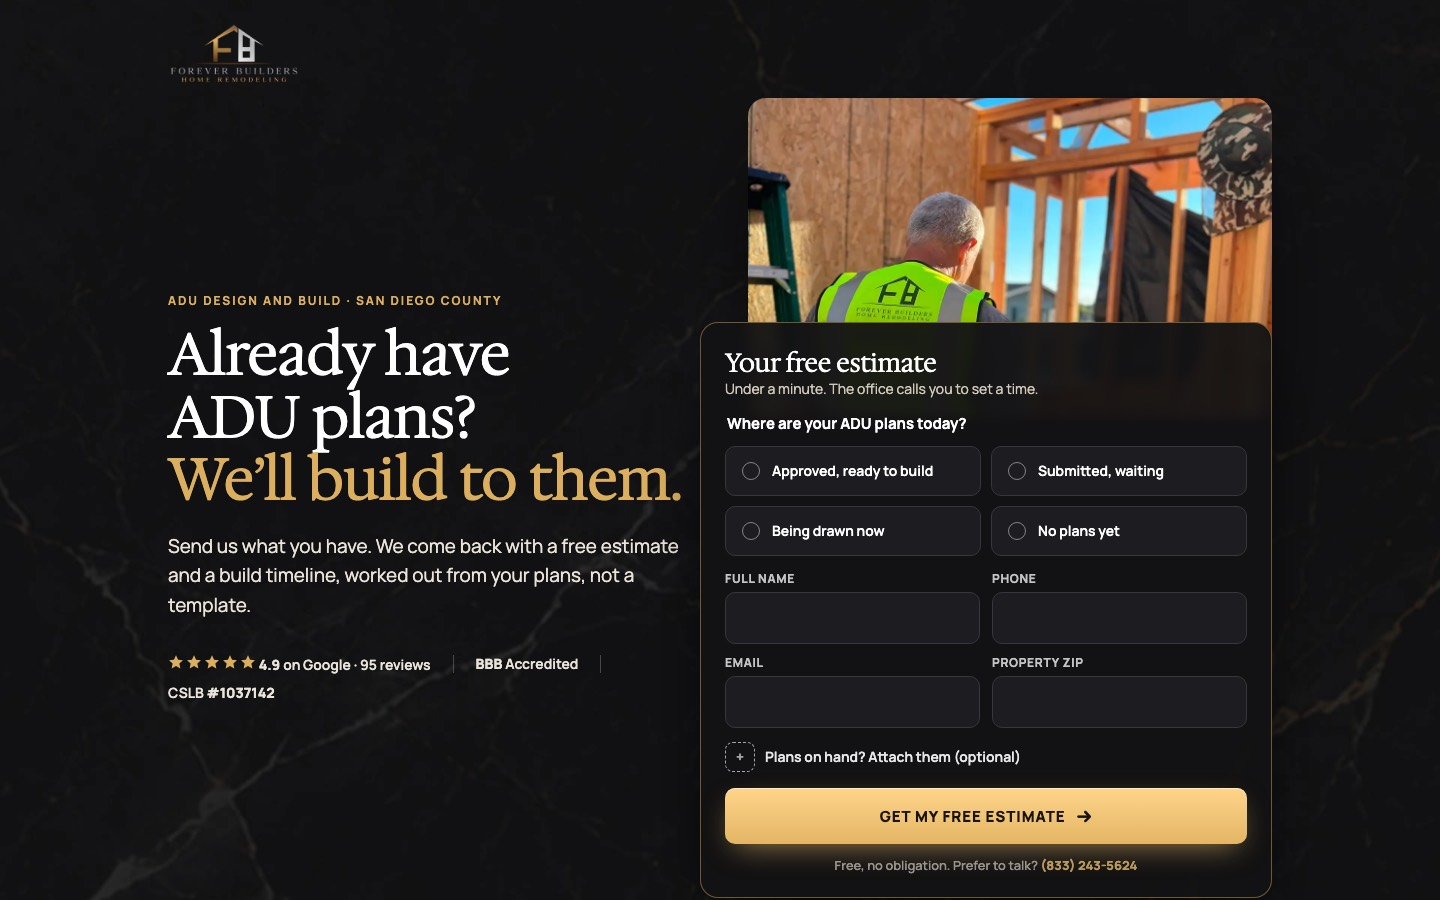
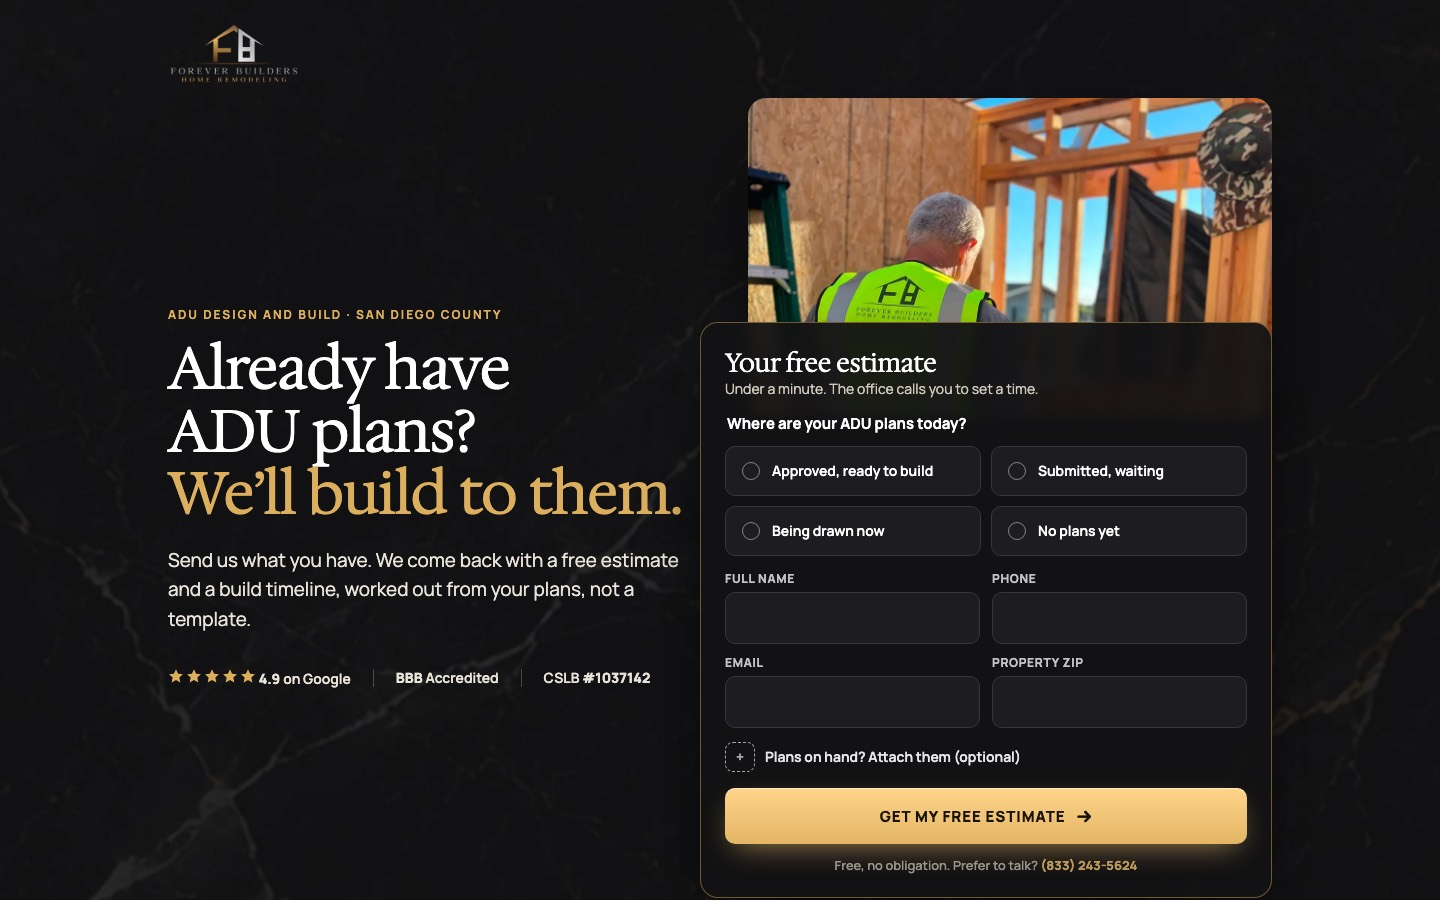
Chooser page with three circles; drop the review count; back pill on versions

Changed region(s): [[0.0938, 0.3111, 0.4688, 0.7778]]

diff --git a/1-adu/index.html b/1-adu/index.html
@@ -4,60 +4,50 @@
 <meta charset="utf-8">
 <meta name="viewport" content="width=device-width,initial-scale=1">
 <meta name="robots" content="noindex,nofollow">
-<title>דף 1 ADU · שלוש גרסאות</title>
+<title>Forever Builders · איזו גרסה הכי אהבת?</title>
+<link rel="preconnect" href="https://fonts.googleapis.com"><link rel="preconnect" href="https://fonts.gstatic.com" crossorigin>
 <link href="https://fonts.googleapis.com/css2?family=Heebo:wght@400;600;800&display=swap" rel="stylesheet">
 <style>
-:root{--ink:#111;--gold:#C9963F;--line:#e6dfd2;--bg:#f6f3ee}
-*{box-sizing:border-box}body{margin:0;font:16px/1.6 Heebo,system-ui,sans-serif;background:var(--bg);color:var(--ink)}
-.wrap{max-width:1240px;margin:0 auto;padding:32px 16px 80px}
-h1{font-size:32px;margin:0 0 6px}.lead{color:#555;margin:0 0 28px}
-.opt{background:#fff;border:1px solid var(--line);border-radius:18px;padding:22px;margin-bottom:26px}
-.opt h2{margin:0 0 4px;font-size:24px}.opt h2 span{color:var(--gold)}
-.opt .what{color:#444;margin:0 0 14px}
-.meta{display:grid;grid-template-columns:repeat(3,1fr);gap:10px;margin:0 0 16px;font-size:14px}
-.meta div{background:var(--bg);border-radius:10px;padding:10px 12px}.meta b{display:block;font-size:12px;color:#777}
-.shots{display:grid;grid-template-columns:3fr 1fr;gap:14px;align-items:start}
-.shots img{width:100%;border-radius:10px;border:1px solid var(--line);display:block}
-.links{display:flex;flex-wrap:wrap;gap:8px;margin-top:14px}
-.links a{display:inline-block;padding:9px 14px;border-radius:999px;background:var(--ink);color:#fff;text-decoration:none;font-weight:600;font-size:14px}
-.links a.alt{background:#fff;color:var(--ink);border:1px solid #ccc}
-.box{background:#fff;border:1px solid var(--line);border-radius:18px;padding:22px}
-.box ul{margin:8px 0 0;padding-inline-start:20px}.box li{margin:4px 0}
-@media(max-width:760px){.meta{grid-template-columns:1fr}.shots{grid-template-columns:1fr 1fr}.shots img:first-child{grid-column:1/-1}}
+:root{--gold:#DCAF5E;--gold-hi:#FFD07B}
+*{box-sizing:border-box}
+body{margin:0;min-height:100svh;font:17px/1.55 Heebo,system-ui,sans-serif;color:#fff;background:#0b0b0c url(../_assets/site/wide-black-marble-bg.webp) center/cover fixed;display:flex;flex-direction:column;align-items:center}
+.w{width:100%;max-width:1000px;padding:40px 16px 56px;text-align:center}
+.logo{width:120px;margin:0 auto 28px;display:block}
+h1{font-size:clamp(30px,5vw,46px);line-height:1.15;margin:0 0 10px;font-weight:800}
+.sub{color:#d9d2c4;margin:0 auto 44px;max-width:30em}
+.pick{display:grid;grid-template-columns:repeat(3,1fr);gap:28px}
+.v{display:flex;flex-direction:column;align-items:center;gap:14px;color:#fff;text-decoration:none}
+.c{display:block;position:relative;width:min(240px,100%);aspect-ratio:1;border-radius:50%;overflow:hidden;border:3px solid var(--gold);box-shadow:0 20px 50px -20px #000;transition:transform .2s,box-shadow .2s}
+.c img{width:100%;height:100%;object-fit:cover;object-position:50% 8%;display:block}
+.n{display:block;position:absolute;z-index:2;top:10px;left:50%;transform:translateX(-50%);width:44px;height:44px;border-radius:50%;background:linear-gradient(180deg,#FFD58A,#E3B565);color:#1a1408;font:800 22px/44px Heebo,sans-serif}
+.v:hover .c,.v:focus-visible .c{transform:translateY(-4px) scale(1.02);box-shadow:0 26px 60px -18px #000,0 0 0 6px rgba(220,175,94,.25)}
+.v b{font-size:21px}
+.v div>span{color:#cfc8bb;font-size:15px;max-width:16em}
+.go{display:inline-block;margin-top:2px;padding:8px 18px;border-radius:999px;border:1px solid var(--gold);color:var(--gold-hi);font-weight:600;font-size:15px}
+.ask{margin-top:48px;color:#d9d2c4;font-size:16px}
+.ask b{color:var(--gold-hi)}
+@media(max-width:700px){
+  .w{padding-top:28px}
+  .sub{margin-bottom:28px}
+  .pick{grid-template-columns:1fr;gap:22px}
+  .v{flex-direction:row;text-align:right;gap:16px;background:rgba(20,20,22,.6);border:1px solid rgba(220,175,94,.25);border-radius:22px;padding:14px}
+  .c{width:120px;flex:none}
+  .n{width:34px;height:34px;font-size:17px;line-height:34px;top:6px}
+  .v div{display:flex;flex-direction:column;align-items:flex-start;gap:4px}
+}
 </style>
 </head>
-<body><div class="wrap">
-<h1>דף 1 · ADU · שלוש גרסאות</h1>
-<p class="lead">קמפיינים 1 ו-13. אותו דף, והכותרת והתמונה מתחלפות לפי <code>?c=</code>. כל הלינקים פותחים את הדף במסך מלא. הטופס לא שולח לשום מקום, רק מדפיס לקונסול ועובר לדף התודה.</p>
-
-<section class="opt">
-  <h2>A · <span>שרטוט שנבנה</span></h2>
-  <p class="what">כהה עם זהב, השפה של הדפים שלהם, ברמה גבוהה יותר. הטופס כבר בראש הדף. בגלילה, שרטוט של ADU נמתח בזהב, הופך לשלד עץ אמיתי מהאתר שלהם, ואז לחלל גמור.</p>
-  <div class="meta"><div><b>טופס</b>קצר, בכרטיס אחד בראש הדף: שאלה אחת עם כפתורים, ואז 4 שדות</div><div><b>הוכחות</b>שורת דירוג מתחת לכותרת, אחר כך רשימת העבודות, הביקורות והבעלים</div><div><b>מתאים אם</b>רוצים פנייה מהירה לפני שמשכנעים</div></div>
-  <div class="shots"><img src="shots/1-adu-a-desk-hero.jpg" alt=""><img src="shots/1-adu-a-mob-hero.jpg" alt=""></div>
-  <div class="links"><a href="a/">פתיחה, קמפיין 1</a><a class="alt" href="a/?c=13">קמפיין 13</a><a class="alt" href="shots/1-adu-a-desk-full.jpg">כל הדף, דסקטופ</a><a class="alt" href="shots/1-adu-a-mob-full.jpg">כל הדף, מובייל</a></div>
-</section>
-
-<section class="opt">
-  <h2>B · <span>דף הערכה</span></h2>
-  <p class="what">בהיר, שיש לבן ואיטליק בסגנון Didot של האתר הראשי. הרגע המרכזי: דף הערכה עם הלוגו שלהם, והשורות שלו מתמלאות בגלילה (בדיקת התוכניות, פירוט, הערכה, לוח זמנים), בלי אף מחיר. הטופס בסוף, באזור כהה. זה שיא הדף.</p>
-  <div class="meta"><div><b>טופס</b>4 שלבים עם פס התקדמות: תוכניות, סוג, מתי, פרטים</div><div><b>הוכחות</b>באמצע: אריחי דירוג, BBB ו-CSLB, ליד רשת העבודות. אחריהם 3 ציטוטים</div><div><b>מתאים אם</b>רוצים להסביר מה מקבלים לפני שמבקשים פרטים. יש גם FAQ קצר</div></div>
-  <div class="shots"><img src="shots/1-adu-b-desk-hero.jpg" alt=""><img src="shots/1-adu-b-mob-hero.jpg" alt=""></div>
-  <div class="links"><a href="b/">פתיחה, קמפיין 1</a><a class="alt" href="b/?c=13">קמפיין 13</a><a class="alt" href="shots/1-adu-b-desk-full.jpg">כל הדף, דסקטופ</a><a class="alt" href="shots/1-adu-b-mob-full.jpg">כל הדף, מובייל</a></div>
-</section>
-
-<section class="opt">
-  <h2>C · <span>השאלון הוא הדף</span></h2>
-  <p class="what">כמו אפליקציה. בטלפון, השאלה הראשונה כבר במסך הראשון, עם כפתורים גדולים. עם כל תשובה הבית מהלוגו שלהם נבנה: יסוד, קירות, גג ודלת. מתחת לשאלון: פס תמונות אמיתיות מאתרי העבודה (מחליקים הצידה), העבודות, הביקורות והבעלים.</p>
-  <div class="meta"><div><b>טופס</b>שאלון כפתורים, שאלה אחת למסך, מעבר אוטומטי</div><div><b>הוכחות</b>אחרי השאלון, ובשורה קטנה בתוכו</div><div><b>מתאים אם</b>רוב הכניסות מהטלפון, וזה מה שאנחנו מצפים</div></div>
-  <div class="shots"><img src="shots/1-adu-c-desk-hero.jpg" alt=""><img src="shots/1-adu-c-mob-hero.jpg" alt=""></div>
-  <div class="links"><a href="c/">פתיחה, קמפיין 1</a><a class="alt" href="c/?c=13">קמפיין 13</a><a class="alt" href="shots/1-adu-c-desk-full.jpg">כל הדף, דסקטופ</a><a class="alt" href="shots/1-adu-c-mob-full.jpg">כל הדף, מובייל</a></div>
-</section>
-
-<section class="opt">
-  <h2>דף תודה <span>(משותף)</span></h2>
-  <div class="shots" style="grid-template-columns:1fr 3fr"><img src="shots/1-adu-thanks-mob-hero.jpg" alt=""><div></div></div>
-  <div class="links"><a href="thanks/">פתיחה</a></div>
-</section>
-
-</div></body></html>
+<body>
+<div class="w">
+  <img class="logo" src="../_assets/logo.png" alt="Forever Builders">
+  <h1>איזו גרסה הכי אהבת?</h1>
+  <p class="sub">שלוש גרסאות לדף הנחיתה של ה-ADU. לוחצים על עיגול והגרסה נפתחת. כדאי לפתוח בטלפון, כי שם רוב האנשים יראו את הדף.</p>
+  <div class="pick">
+    <a class="v" href="a/?pick=1"><span class="c"><img src="shots/1-adu-a-mob-hero.jpg" alt=""></span><div><b>גרסה 1</b><span>כהה וזהב. הטופס כבר בראש הדף.</span><em class="go" style="font-style:normal">לפתוח</em></div></a>
+    <a class="v" href="b/?pick=1"><span class="c"><img src="shots/1-adu-b-mob-hero.jpg" alt=""></span><div><b>גרסה 2</b><span>בהיר ונקי. קודם מסביר, הטופס בסוף.</span><em class="go" style="font-style:normal">לפתוח</em></div></a>
+    <a class="v" href="c/?pick=1"><span class="c"><img src="shots/1-adu-c-mob-hero.jpg" alt=""></span><div><b>גרסה 3</b><span>שאלון קצר עם כפתורים, ישר מההתחלה.</span><em class="go" style="font-style:normal">לפתוח</em></div></a>
+  </div>
+  <p class="ask">אחרי שראית, תכתוב לנו בוואטסאפ: <b>1, 2 או 3</b>. אפשר גם "מ-1 את זה, ומ-3 את זה".</p>
+</div>
+</body>
+</html>

diff --git a/1-adu/c/index.html b/1-adu/c/index.html
@@ -108,7 +108,7 @@ body{background:var(--ink);color:#fff}
   <div class="bg" data-k-bg="hero" style="background-image:url(../../_assets/site/my-forever-builders-room-addition-adu-project.webp)"></div>
   <div class="bar">
     <img src="../../_assets/logo.png" alt="Forever Builders Home Remodeling">
-    <div class="proofrow"><span><span class="stars"><svg><use href="#st"/></svg><svg><use href="#st"/></svg><svg><use href="#st"/></svg><svg><use href="#st"/></svg><svg><use href="#st"/></svg></span> <b>4.9</b> Google · 95 reviews</span><span class="sep"></span><span><b>BBB</b> Accredited</span><span class="sep"></span><span>CSLB <b>#1037142</b></span></div>
+    <div class="proofrow"><span><span class="stars"><svg><use href="#st"/></svg><svg><use href="#st"/></svg><svg><use href="#st"/></svg><svg><use href="#st"/></svg><svg><use href="#st"/></svg></span> <b>4.9</b> on Google</span><span class="sep"></span><span><b>BBB</b> Accredited</span><span class="sep"></span><span>CSLB <b>#1037142</b></span></div>
   </div>
   <div class="main">
     <div>
@@ -168,7 +168,7 @@ body{background:var(--ink);color:#fff}
         <button class="btn btn-wide" type="submit"><span data-k="cta">Get my free estimate</span> <span class="arr">→</span></button>
         <button type="button" class="back" data-back>← Back</button>
       </div>
-      <div class="mproof"><span><span class="stars"><svg><use href="#st"/></svg><svg><use href="#st"/></svg><svg><use href="#st"/></svg><svg><use href="#st"/></svg><svg><use href="#st"/></svg></span> <b>4.9</b> Google · 95</span><span><b>BBB</b> Accredited</span><span>CSLB #1037142</span></div>
+      <div class="mproof"><span><span class="stars"><svg><use href="#st"/></svg><svg><use href="#st"/></svg><svg><use href="#st"/></svg><svg><use href="#st"/></svg><svg><use href="#st"/></svg></span> <b>4.9</b> on Google</span><span><b>BBB</b> Accredited</span><span>CSLB #1037142</span></div>
     </form>
   </div>
 </section>
@@ -201,7 +201,7 @@ body{background:var(--ink);color:#fff}
 
 <section class="vo">
   <div class="wrap">
-    <h2>4.9 on Google, from 95 reviews.</h2>
+    <h2>Rated 4.9 on Google.</h2>
     <div class="cards">
       <figure class="card" style="margin:0"><div class="stars"><svg><use href="#st"/></svg><svg><use href="#st"/></svg><svg><use href="#st"/></svg><svg><use href="#st"/></svg><svg><use href="#st"/></svg></div><p>“Forever Builders truly exceeded expectations with the addition to my house, from start to finish. The quality of the work is outstanding.”</p><cite>Adam S. <span>· San Diego</span></cite></figure>
       <figure class="card" style="margin:0"><div class="stars"><svg><use href="#st"/></svg><svg><use href="#st"/></svg><svg><use href="#st"/></svg><svg><use href="#st"/></svg><svg><use href="#st"/></svg></div><p>“We got quotes from three companies before making our final decision. We decided to go with Forever Builders due to the ease of communication with Ben.”</p><cite>Autumn P. <span>· San Diego</span></cite></figure>

diff --git a/1-adu/b/index.html b/1-adu/b/index.html
@@ -154,7 +154,7 @@ body{background:var(--paper)}
       <p class="sub" data-k="sub">Send us what you have. We come back with a free estimate and a build timeline, worked out from your plans, not a template.</p>
       <div class="acts"><a class="btn" href="#estimate" data-goto="#estimate" data-from="hero"><span data-k="cta">Get my free estimate</span> <span class="arr">→</span></a><small>4 quick questions · no obligation</small></div>
       <div class="proofrow">
-        <span><span class="stars"><svg><use href="#st"/></svg><svg><use href="#st"/></svg><svg><use href="#st"/></svg><svg><use href="#st"/></svg><svg><use href="#st"/></svg></span> <b>4.9</b> on Google · 95 reviews</span>
+        <span><span class="stars"><svg><use href="#st"/></svg><svg><use href="#st"/></svg><svg><use href="#st"/></svg><svg><use href="#st"/></svg><svg><use href="#st"/></svg></span> <b>4.9</b> on Google</span>
         <span class="sep"></span><span><b>BBB</b> Accredited</span><span class="sep"></span><span>CSLB <b>#1037142</b></span>
       </div>
     </div>
@@ -200,7 +200,7 @@ body{background:var(--paper)}
   <div class="wrap">
     <div class="g">
       <div class="score">
-        <div class="tile dark"><div class="n">4.9</div><div class="stars" style="margin-top:8px"><svg><use href="#st"/></svg><svg><use href="#st"/></svg><svg><use href="#st"/></svg><svg><use href="#st"/></svg><svg><use href="#st"/></svg></div><div class="k">Google · 95 reviews</div></div>
+        <div class="tile dark"><div class="n">4.9</div><div class="stars" style="margin-top:8px"><svg><use href="#st"/></svg><svg><use href="#st"/></svg><svg><use href="#st"/></svg><svg><use href="#st"/></svg><svg><use href="#st"/></svg></div><div class="k">On Google</div></div>
         <div class="tiles2"><div class="tile"><div class="n" style="font-size:40px">BBB</div><div class="k">Accredited business</div></div><div class="tile"><div class="n" style="font-size:40px">CSLB</div><div class="k">License #1037142</div></div></div>
       </div>
       <div>

diff --git a/1-adu/a/index.html b/1-adu/a/index.html
@@ -142,7 +142,7 @@ body{background:var(--ink);color:#fff}
       <h1 data-k="h1">Already have ADU&nbsp;plans?<span class="pk">We’ll build to them.</span></h1>
       <p class="sub" data-k="sub">Send us what you have. We come back with a free estimate and a build timeline, worked out from your plans, not a template.</p>
       <div class="proofrow">
-        <span><span class="stars"><svg><use href="#st"/></svg><svg><use href="#st"/></svg><svg><use href="#st"/></svg><svg><use href="#st"/></svg><svg><use href="#st"/></svg></span> <b>4.9</b> on Google · 95 reviews</span>
+        <span><span class="stars"><svg><use href="#st"/></svg><svg><use href="#st"/></svg><svg><use href="#st"/></svg><svg><use href="#st"/></svg><svg><use href="#st"/></svg></span> <b>4.9</b> on Google</span>
         <span class="sep"></span><span><b>BBB</b> Accredited</span>
         <span class="sep"></span><span>CSLB <b>#1037142</b></span>
       </div>
@@ -227,7 +227,7 @@ body{background:var(--ink);color:#fff}
       <div class="big">4.9</div>
       <div>
         <span class="stars"><svg><use href="#st"/></svg><svg><use href="#st"/></svg><svg><use href="#st"/></svg><svg><use href="#st"/></svg><svg><use href="#st"/></svg></span>
-        <h2 style="margin-top:8px">On Google, from 95 reviews.</h2>
+        <h2 style="margin-top:8px">Rated on Google.</h2>
         <div class="badges"><span class="badge">BBB Accredited Business</span><span class="badge">CSLB License #1037142</span><span class="badge">Family owned, San Diego</span></div>
       </div>
     </div>

diff --git a/index.html b/index.html
@@ -1,9 +1,1 @@
-<!doctype html><html lang="he" dir="rtl"><head><meta charset="utf-8"><meta name="viewport" content="width=device-width,initial-scale=1"><meta name="robots" content="noindex,nofollow"><title>Forever Builders · דפי נחיתה</title>
-<style>body{margin:0;font:17px/1.6 system-ui,sans-serif;background:#f6f3ee;color:#111}.w{max-width:720px;margin:0 auto;padding:40px 16px}a{display:block;background:#fff;border:1px solid #e6dfd2;border-radius:14px;padding:18px 20px;margin:10px 0;color:#111;text-decoration:none;font-weight:600}a span{display:block;font-weight:400;color:#666;font-size:15px}.off{opacity:.45;pointer-events:none}</style></head>
-<body><div class="w"><h1>Forever Builders · 5 דפי נחיתה</h1>
-<a href="1-adu/">דף 1 · ADU<span>קמפיינים 1 ו-13 · שלוש גרסאות לבחירה</span></a>
-<a class="off">דף 2 · יש לך תוכניות<span>קמפיינים 2 ו-6 · אחרי הבחירה בדף 1</span></a>
-<a class="off">דף 3 · מטבח ואמבטיה<span>קמפיינים 3 ו-4</span></a>
-<a class="off">דף 4 · שיפוץ מלא<span>קמפיינים 5, 12 וטיר 1 של 3</span></a>
-<a class="off">דף 5 · חדר עבודה בבית<span>קמפיין 7</span></a>
-</div></body></html>
+<!doctype html><html lang="he"><head><meta charset="utf-8"><meta name="robots" content="noindex,nofollow"><meta http-equiv="refresh" content="0;url=1-adu/"><title>Forever Builders</title></head><body><a href="1-adu/">1-adu</a></body></html>

diff --git a/_shared/fb.js b/_shared/fb.js
@@ -127,6 +127,17 @@
     });
   }
 
-  function ready() { applyCopy(); document.querySelectorAll('form[data-fbform]').forEach(initForm); initGoto(); H.classList.add('fb-ready'); }
+
+  /* review only: opened from the chooser (?pick=1) -> a pill back to the three versions */
+  function pickBack() {
+    if (q.get('pick') !== '1') return;
+    var v = { 'adu-a': '1', 'adu-b': '2', 'adu-c': '3' }[FB.page] || '';
+    var a = document.createElement('a');
+    a.href = '../'; a.dir = 'rtl'; a.textContent = '→ חזרה לגרסאות' + (v ? ' · גרסה ' + v : '');
+    a.style.cssText = 'position:fixed;z-index:99;top:12px;right:12px;padding:9px 14px;border-radius:999px;background:rgba(14,14,15,.88);color:#FFD07B;border:1px solid #DCAF5E;font:700 13px Heebo,Manrope,system-ui,sans-serif;text-decoration:none;box-shadow:0 8px 20px -8px #000';
+    document.body.appendChild(a);
+  }
+
+  function ready() { pickBack(); applyCopy(); document.querySelectorAll('form[data-fbform]').forEach(initForm); initGoto(); H.classList.add('fb-ready'); }
   if (document.readyState === 'loading') document.addEventListener('DOMContentLoaded', ready); else ready();
 })();
